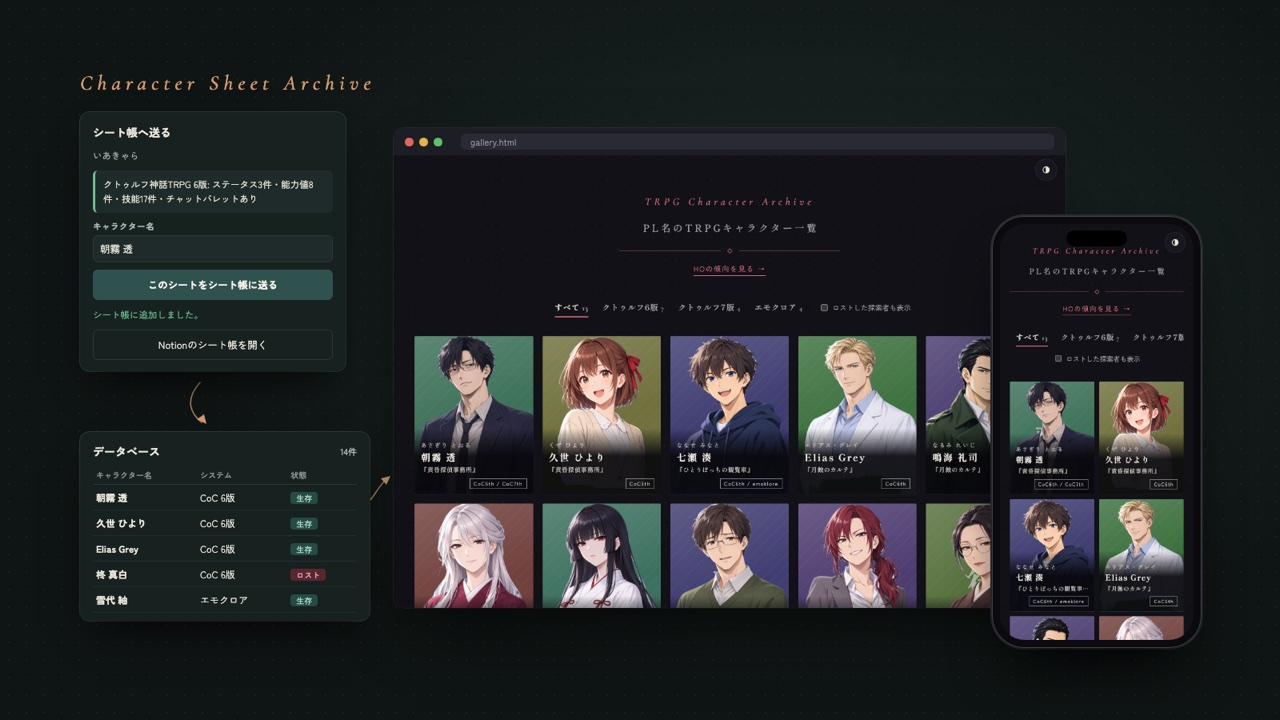
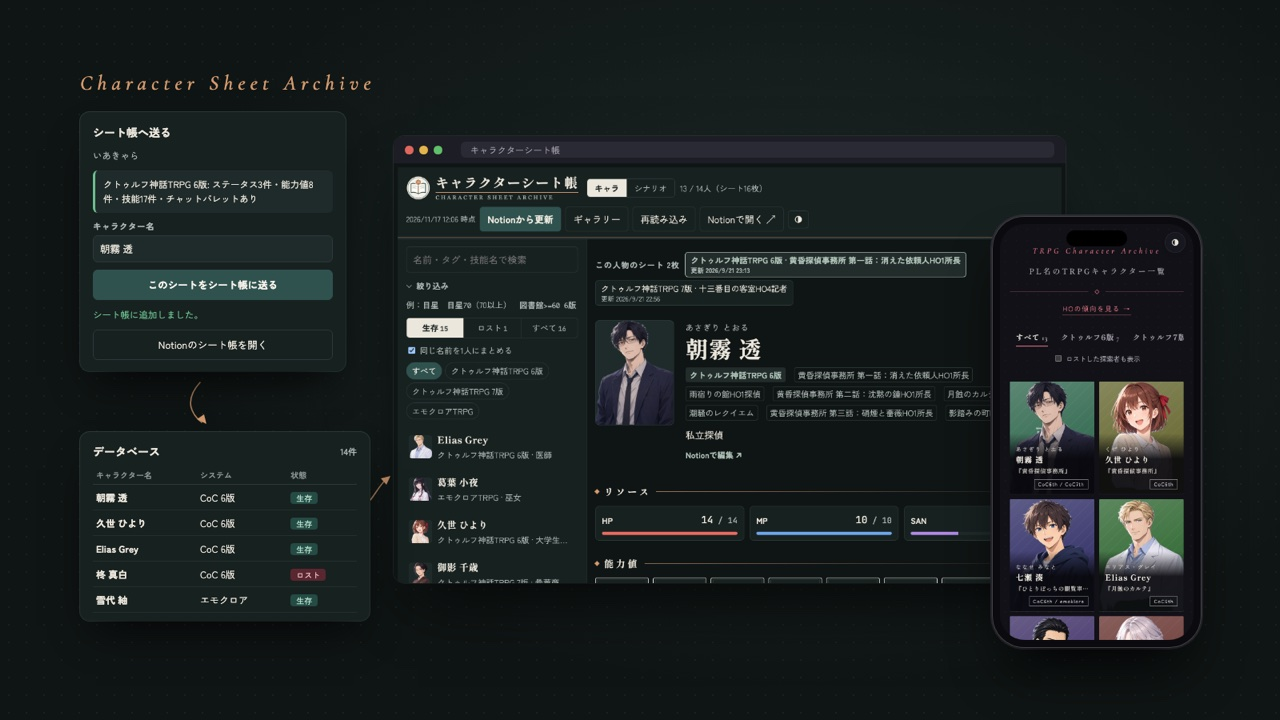
キャラクターシート帳：検索・絞り込みのできるシート帳の画面を架空のキャラクターで撮り直し、トップの画面・イメージ画像・紹介ページに入れる

Changed region(s): [[0.3125, 0.2444, 0.7812, 0.8556], [0.3125, 0.1833, 0.4375, 0.2139]]

diff --git a/works/trpg_charsheet_book/index.html b/works/trpg_charsheet_book/index.html
@@ -9,7 +9,7 @@
   <meta property="og:title" content="キャラクターシート帳">
   <meta property="og:description" content="いあきゃら・キャラッシュなど各サイトのキャラクターシートを、Chrome拡張でNotionに集めて一覧にします。">
   <meta property="og:url" content="https://shizaki-kanoto.is-a.dev/works/trpg_charsheet_book/">
-  <meta property="og:image" content="https://shizaki-kanoto.is-a.dev/works/trpg_charsheet_book/ogp.jpg?v=2">
+  <meta property="og:image" content="https://shizaki-kanoto.is-a.dev/works/trpg_charsheet_book/ogp.jpg?v=3">
   <meta property="og:image:width" content="1280">
   <meta property="og:image:height" content="720">
   <meta name="twitter:card" content="summary_large_image">
@@ -213,7 +213,7 @@
         </div>
       </div>
       <figure>
-        <img src="../../images/works/trpg_charsheet_book-image.jpg?v=2" alt="キャラクターシート帳のイメージ。拡張機能「シート帳へ送る」で送ったシートが Notion のデータベースに集まり、パソコンとスマホのギャラリーに立ち絵つきで並ぶ。画面のキャラクターはすべて架空" width="1600" height="900">
+        <img src="../../images/works/trpg_charsheet_book-image.jpg?v=3" alt="キャラクターシート帳のイメージ。拡張機能「シート帳へ送る」で送ったシートが Notion のデータベースに集まり、パソコンではシート帳、スマホではギャラリーで見られる。画面のキャラクターはすべて架空" width="1600" height="900">
       </figure>
     </div>
   </header>
@@ -245,6 +245,13 @@
         <figure class="shot">
           <img src="screen.png?v=2" alt="拡張機能「シート帳へ送る」のポップアップ。いあきゃらのクトゥルフ神話TRPG 6版のシートで、ステータス3件・能力値8件・技能17件・チャットパレットありと読み取れたこと、キャラクター名「朝霧 透」、「このシートをシート帳に送る」のボタン、「シート帳に追加しました。」の表示が出ている" width="340" height="406" loading="lazy">
           <figcaption>シートのページで拡張機能のアイコンを押したところ。読み取れた項目が出て、そのまま Notion に送れます。説明用に、架空のキャラクターで表示を再現しています。</figcaption>
+        </figure>
+
+        <h3 class="sub">シート帳</h3>
+        <p>Notion に集めたシートを探して見るページです。名前・タグ・技能名で検索でき、システムや生存・ロストで絞り込めます。キャラクターを選ぶと、通過したシナリオ・HP・能力値・技能が並びます。</p>
+        <figure class="shot wide">
+          <img src="book.jpg" alt="シート帳の画面。左に検索欄、生存・ロストとシステムの絞り込み、キャラクターの一覧があり、右に選んだキャラクター「朝霧 透」の立ち絵、通過したシナリオ、HP・MP・SAN が出ている" width="1600" height="1000" loading="lazy">
+          <figcaption>シート帳。「目星70」「図書館>=60 6版」のように、技能の値でも探せます。画面のキャラクターは説明用の架空のものです。</figcaption>
         </figure>
 
         <h3 class="sub">ギャラリー</h3>

diff --git a/index.html b/index.html
@@ -629,8 +629,8 @@
         <article class="card">
           <div class="thumb">
             <span class="ph">キャラクターシート帳</span>
-            <img data-view="capture" src="images/works/trpg_charsheet_book.jpg?v=2" alt="キャラクターシート帳のギャラリーの画面。架空のキャラクターの立ち絵つきタイルが並び、上にシステムの切り替えがある" width="1600" height="1000" loading="lazy" onerror="thumbImgError(this)">
-            <img data-view="image" src="images/works/trpg_charsheet_book-image.jpg?v=2" alt="キャラクターシート帳のイメージ。拡張機能「シート帳へ送る」で送ったシートが Notion のデータベースに集まり、パソコンとスマホのギャラリーに立ち絵つきで並ぶ。画面のキャラクターはすべて架空" width="1600" height="900" loading="lazy" onerror="thumbImgError(this)">
+            <img data-view="capture" src="images/works/trpg_charsheet_book.jpg?v=3" alt="キャラクターシート帳の画面。左に検索欄とタグで絞り込めるキャラクター一覧、右に選んだキャラクターのシナリオ・HP・能力値が出ている。キャラクターはすべて架空" width="1600" height="1000" loading="lazy" onerror="thumbImgError(this)">
+            <img data-view="image" src="images/works/trpg_charsheet_book-image.jpg?v=3" alt="キャラクターシート帳のイメージ。拡張機能「シート帳へ送る」で送ったシートが Notion のデータベースに集まり、パソコンではシート帳、スマホではギャラリーで見られる。画面のキャラクターはすべて架空" width="1600" height="900" loading="lazy" onerror="thumbImgError(this)">
           </div>
           <div class="body">
             <h4><a class="card-link" href="https://shizaki-kanoto.is-a.dev/works/trpg_charsheet_book/">キャラクターシート帳</a></h4>
